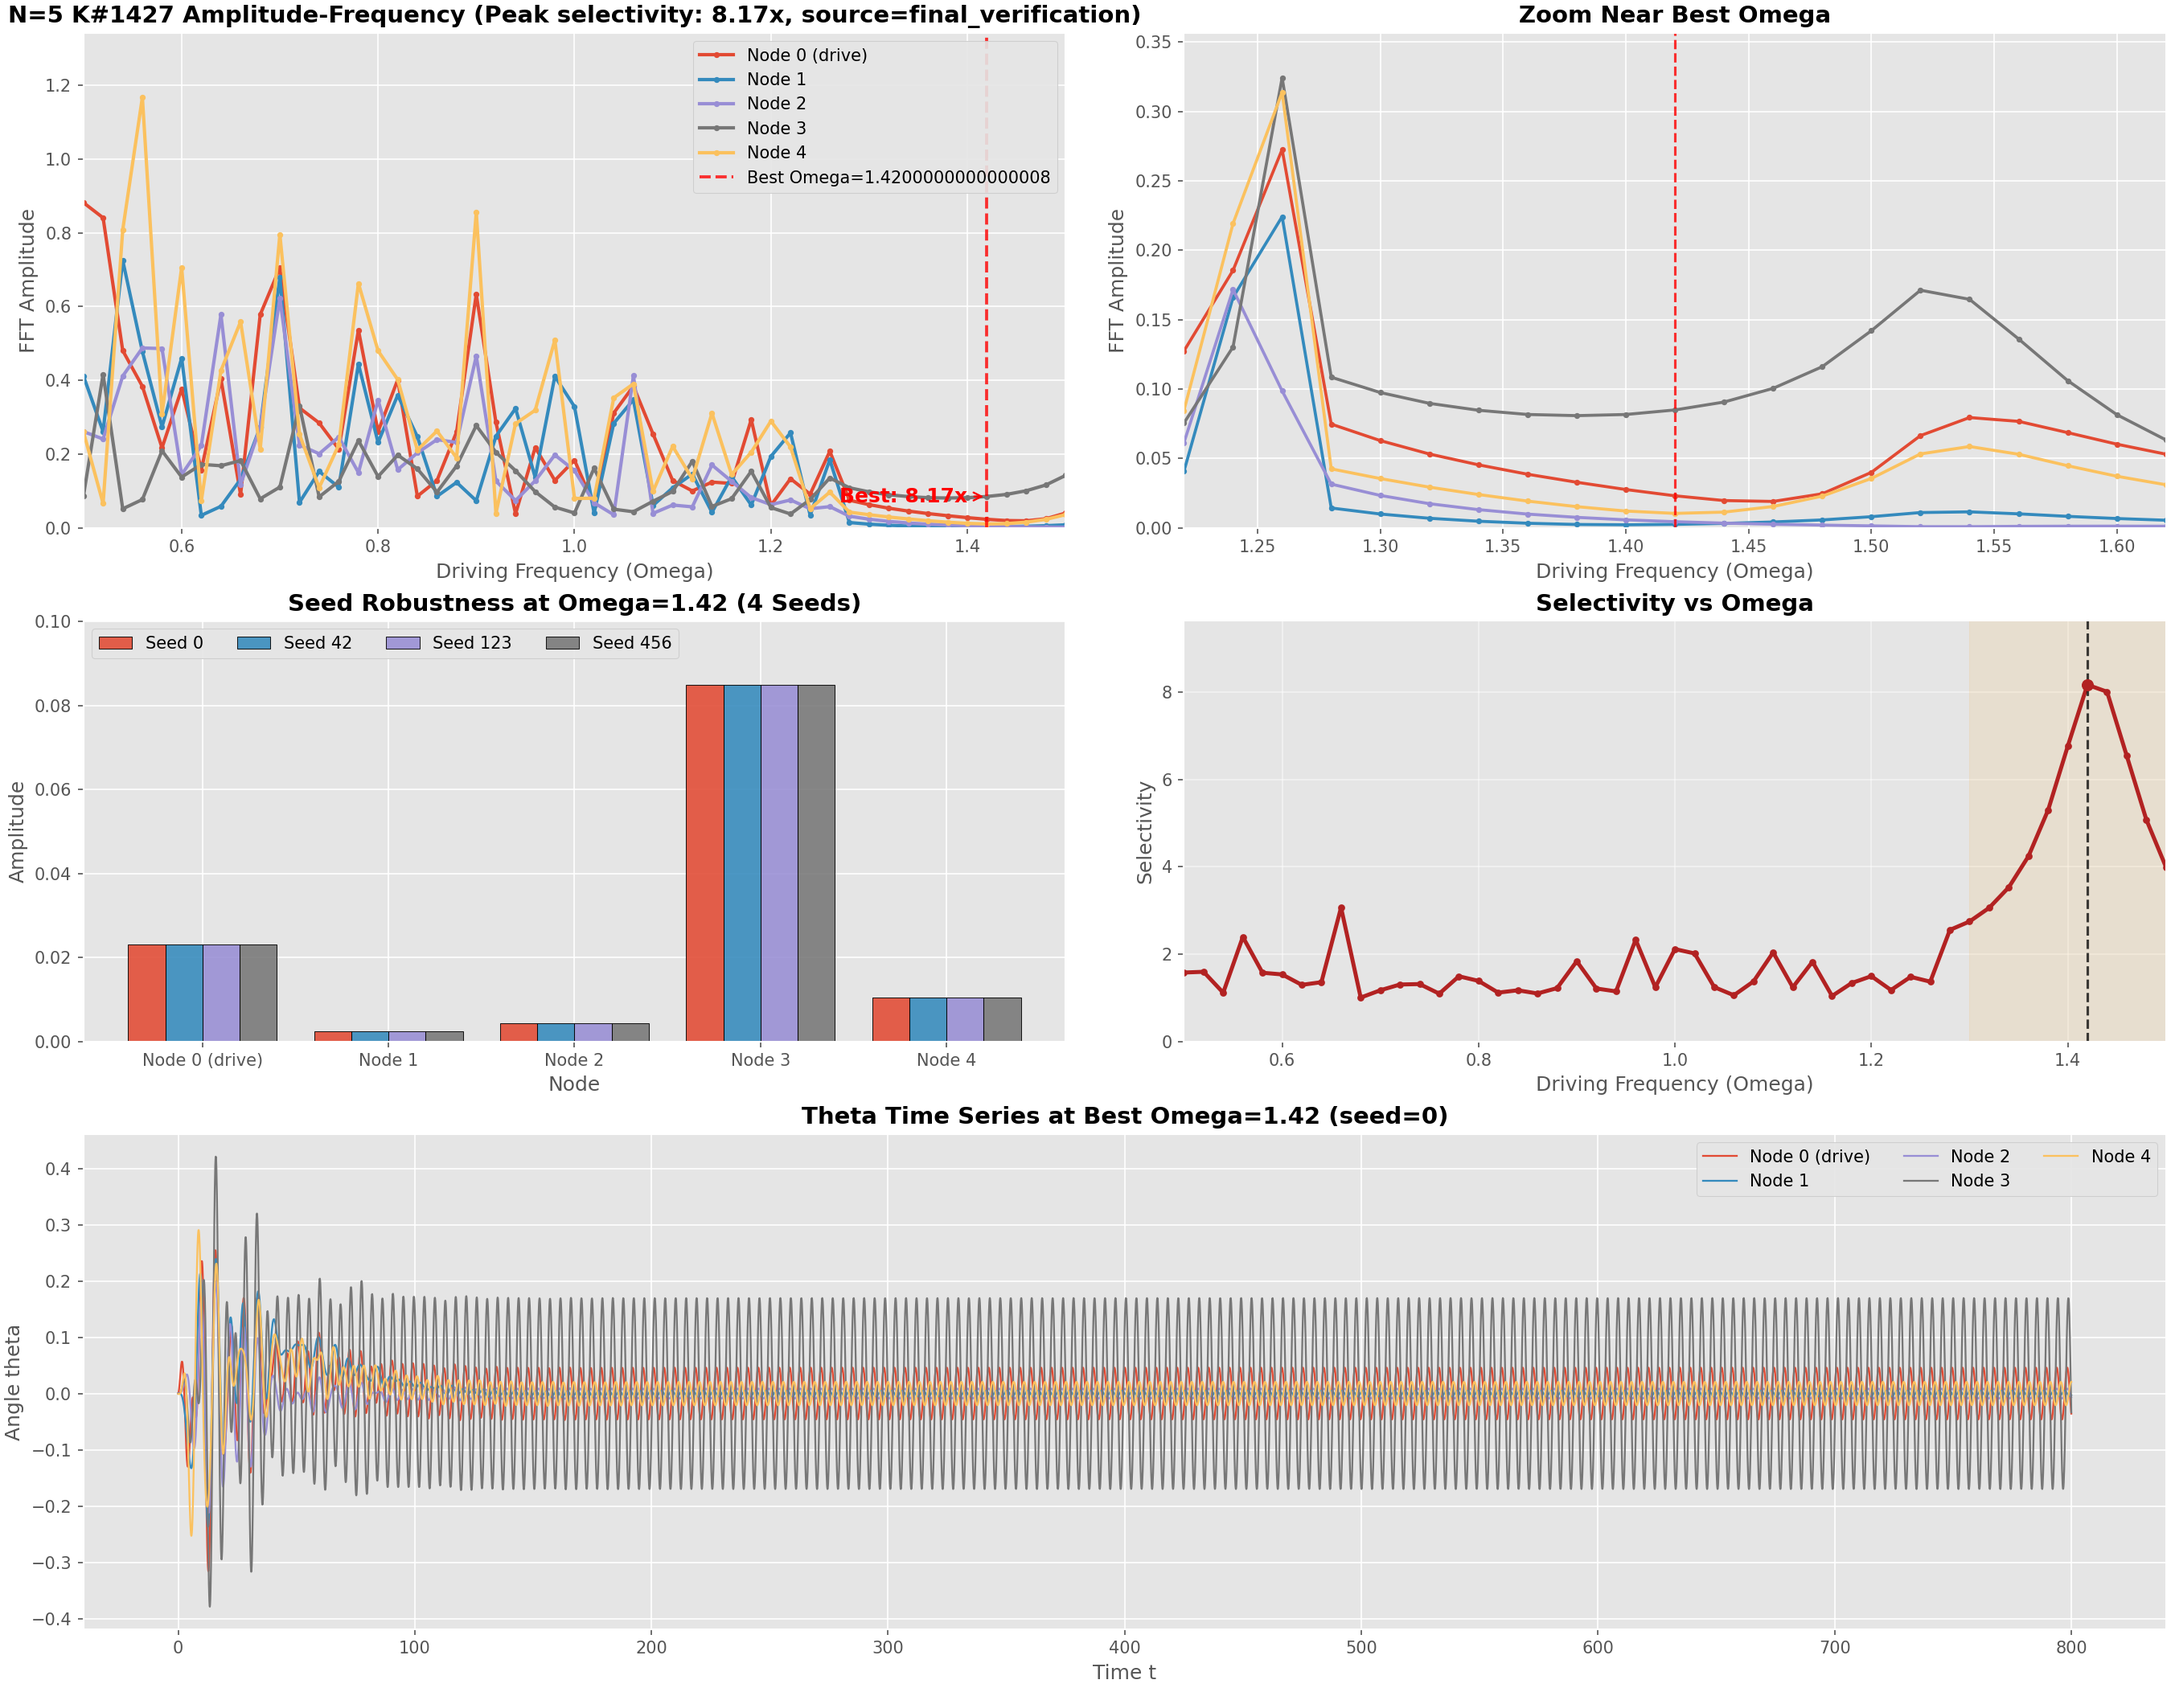
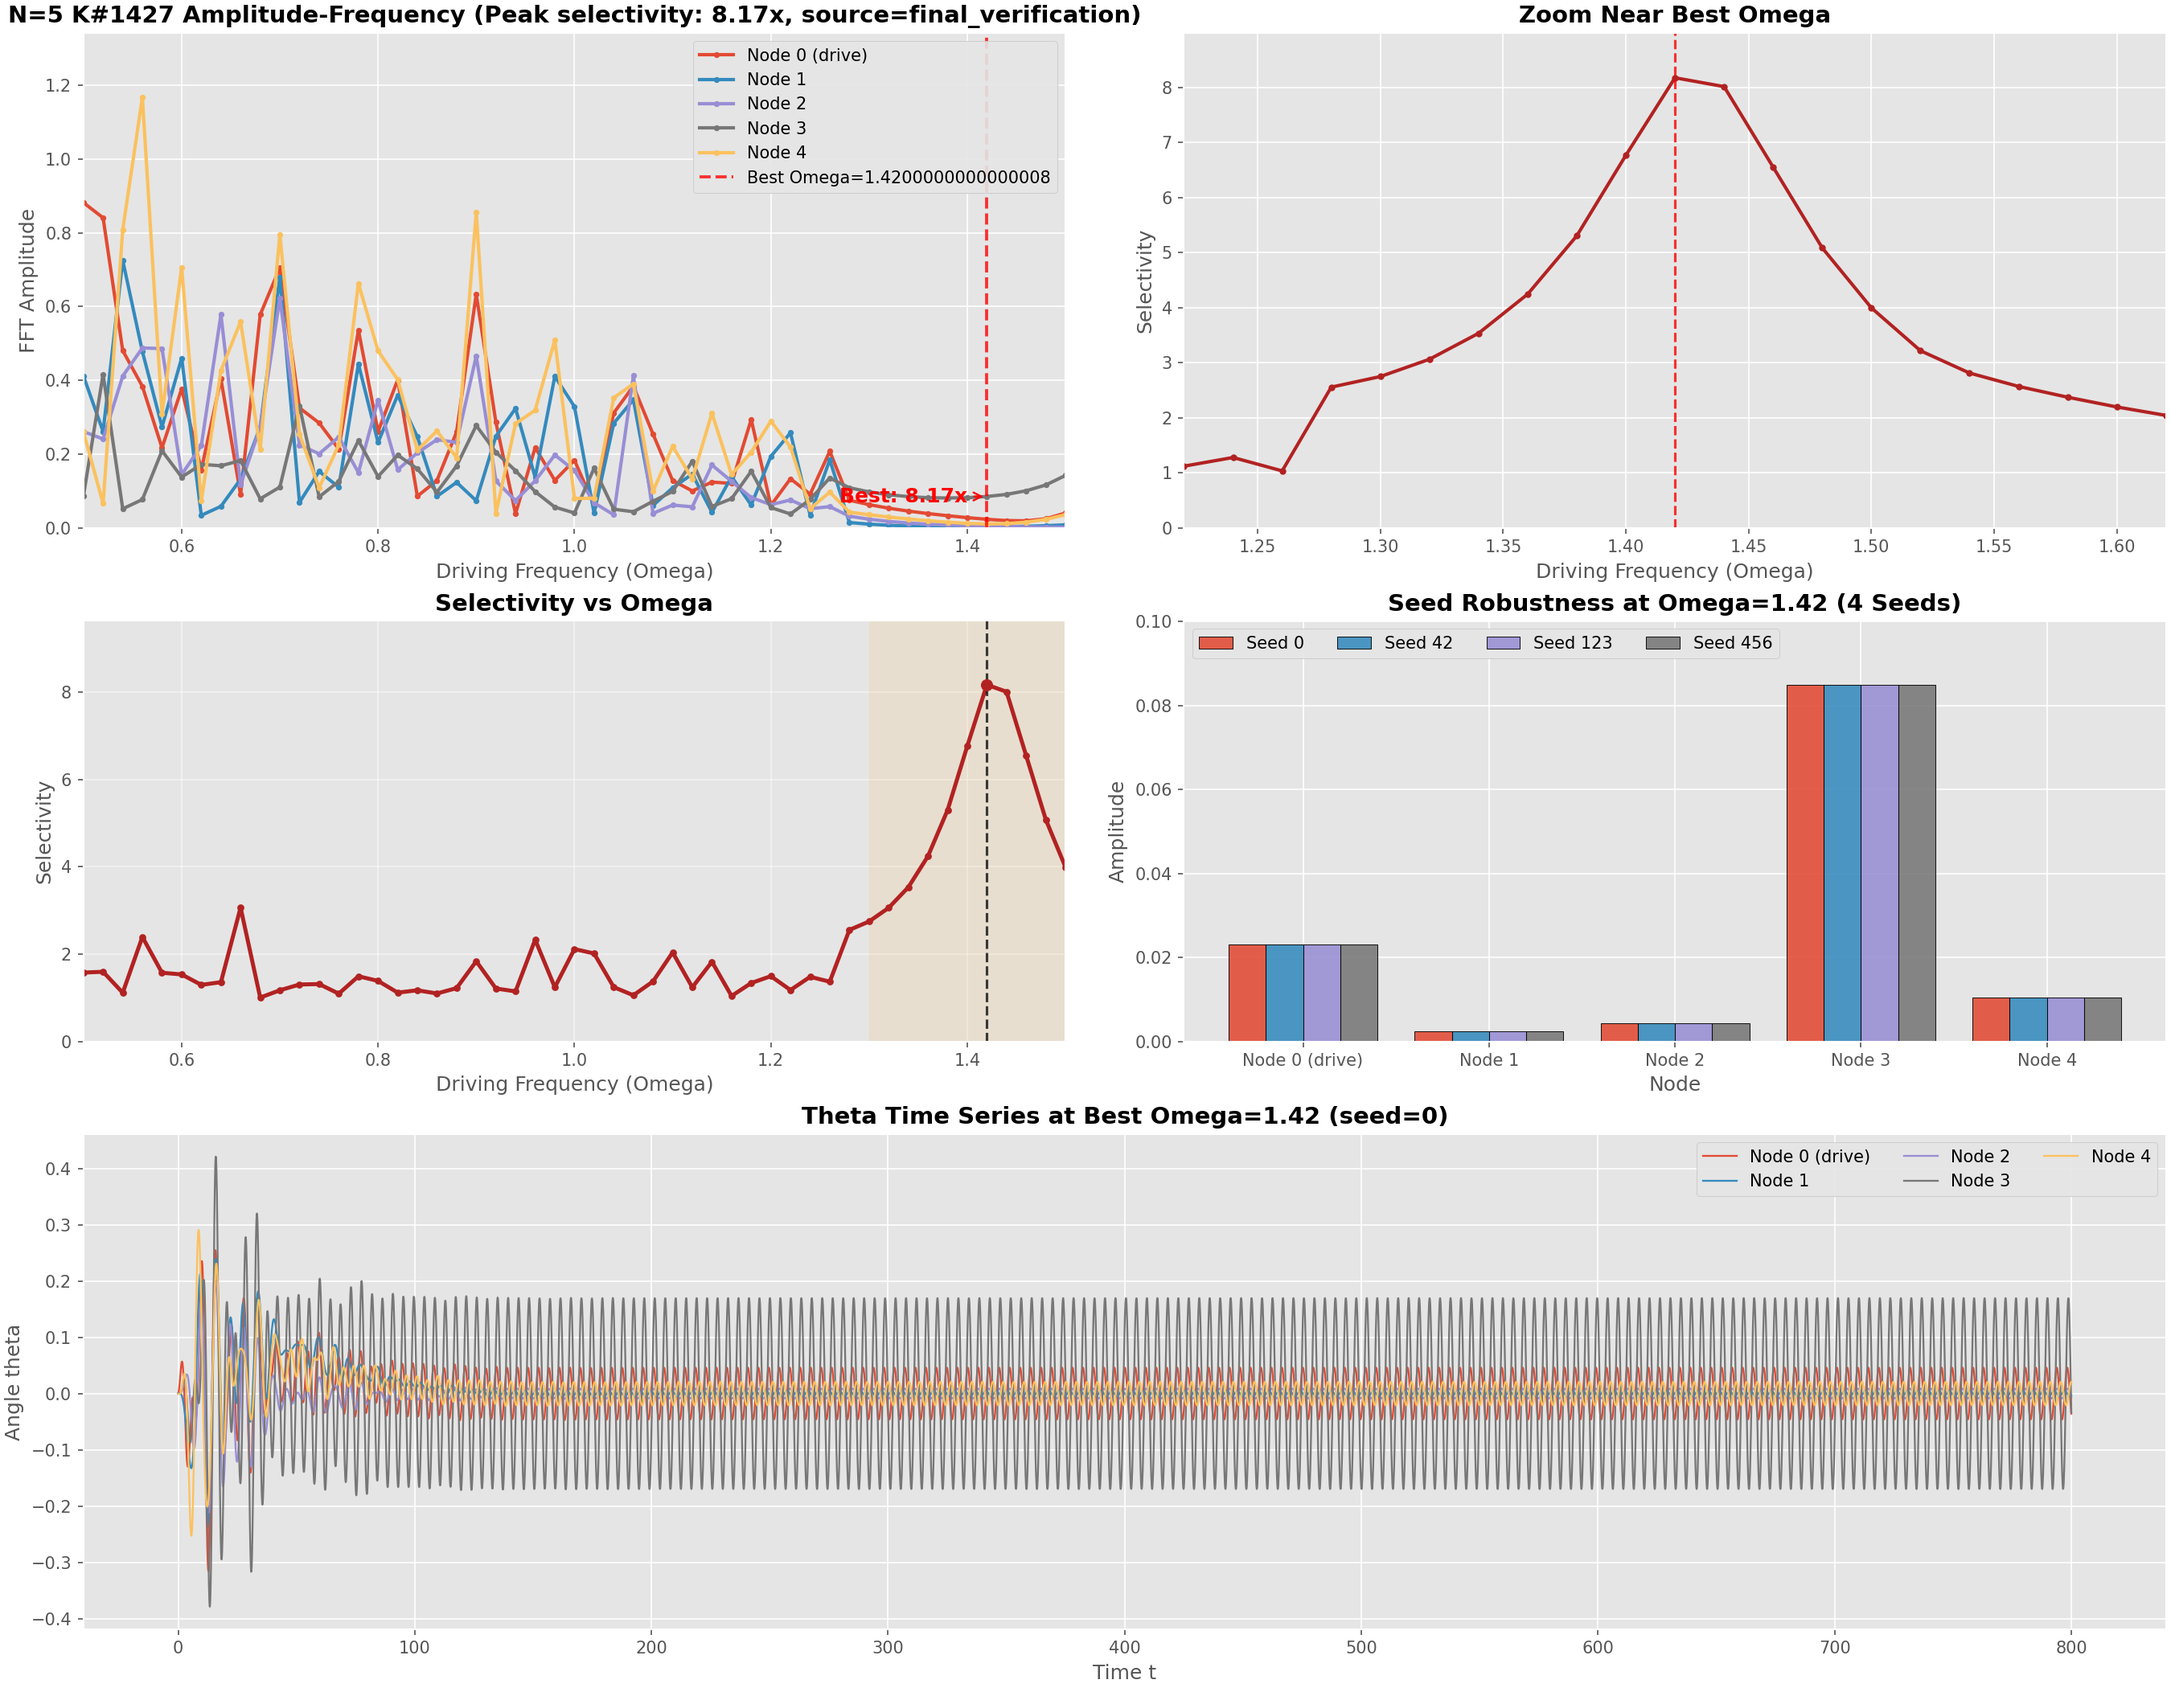
Update top-1 verification figure layout

diff --git a/n5_kij_structure_study/scripts/plot_strict_results.py b/n5_kij_structure_study/scripts/plot_strict_results.py
@@ -197,8 +197,8 @@ def main() -> None:
     gs = fig.add_gridspec(3, 2, height_ratios=[1.0, 0.85, 1.0])
     ax_full = fig.add_subplot(gs[0, 0])
     ax_zoom = fig.add_subplot(gs[0, 1])
-    ax_bar = fig.add_subplot(gs[1, 0])
-    ax_sel = fig.add_subplot(gs[1, 1])
+    ax_sel = fig.add_subplot(gs[1, 0])
+    ax_bar = fig.add_subplot(gs[1, 1])
     ax_theta = fig.add_subplot(gs[2, :])
 
     def node_label(i: int) -> str:
@@ -252,15 +252,16 @@ def main() -> None:
         )
         amp_by_omega_zoom.append(run_simulation(p)["amp_fft"])
     amp_by_omega_zoom = np.array(amp_by_omega_zoom, dtype=float)
-    for i in range(amp_by_omega_zoom.shape[1]):
-        ax_zoom.plot(omegas_zoom, amp_by_omega_zoom[:, i], marker="o", markersize=2.5, linewidth=1.8, label=node_label(i))
+    sel_zoom = amp_by_omega_zoom[:, non_drive_idx]
+    sel_ratio_zoom = sel_zoom.max(axis=1) / (np.partition(sel_zoom, -2, axis=1)[:, -2] + 1e-12)
+    ax_zoom.plot(omegas_zoom, sel_ratio_zoom, color="#b22222", marker="o", markersize=3.0, linewidth=2.0)
     ax_zoom.axvline(omega_best, color="red", linestyle="--", linewidth=1.5, alpha=0.8)
     ax_zoom.set_xlim(zx0, zx1)
-    y_zoom_max = float(np.max(amp_by_omega_zoom))
-    ax_zoom.set_ylim(0.0, max(0.02, y_zoom_max * 1.10))
+    y_zoom_max = float(np.max(sel_ratio_zoom))
+    ax_zoom.set_ylim(0.0, max(2.0, y_zoom_max * 1.10))
     ax_zoom.set_title("Zoom Near Best Omega", fontsize=14, fontweight="bold")
     ax_zoom.set_xlabel("Driving Frequency (Omega)")
-    ax_zoom.set_ylabel("FFT Amplitude")
+    ax_zoom.set_ylabel("Selectivity")
 
     x = np.arange(amp_by_seed.shape[1])
     width = 0.8 / max(len(seeds), 1)
